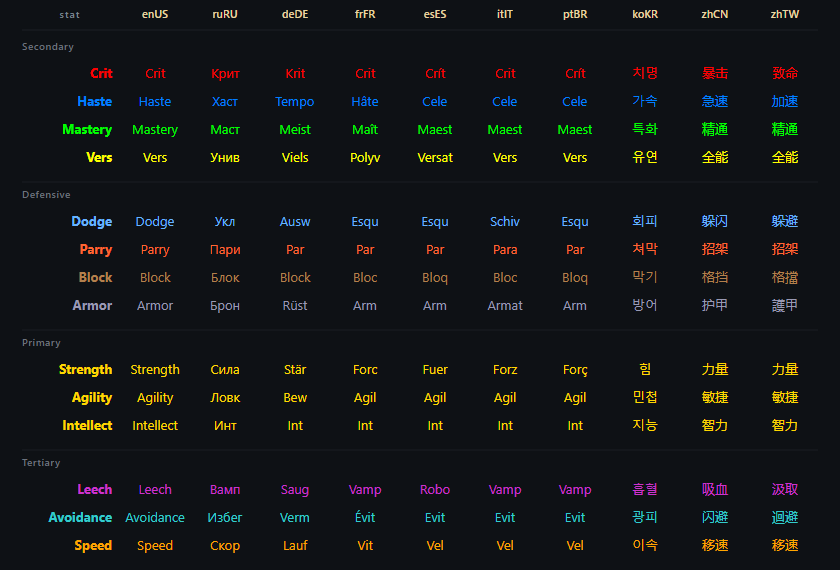
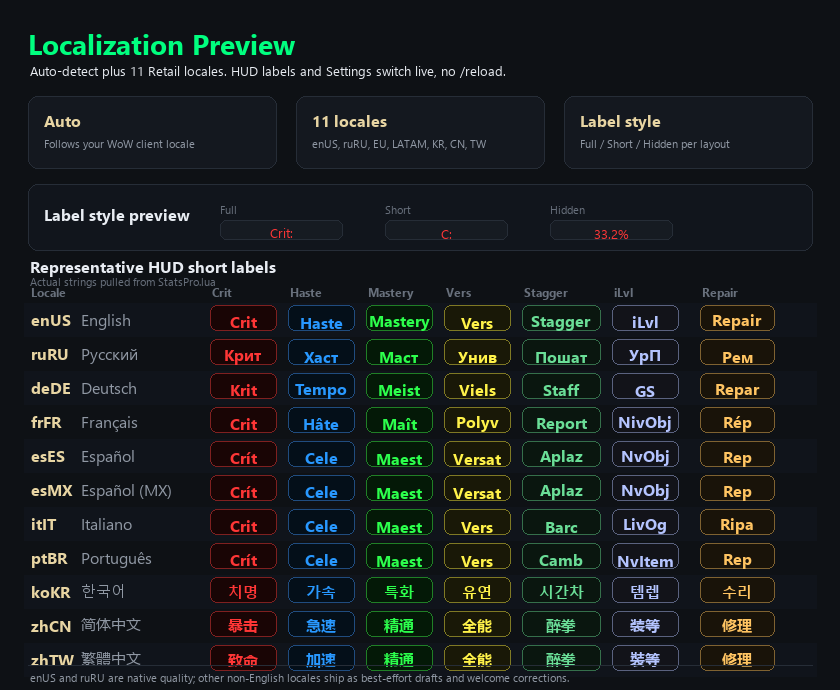
docs: refresh localization preview

diff --git a/README.md b/README.md
@@ -105,7 +105,7 @@ Stat labels render in your WoW client's language by default — no setup require
 Curated short-form translations across all 11 retail WoW locales preserve the same
 compact 4-7 char visual rhythm as the original English labels:
 
-![StatsPro localization — short-form stat names across 11 retail WoW locales, color-coded with default StatsPro stat colors](screenshots/localization.png)
+![StatsPro localization preview — 11 retail locales, HUD short labels, and label style examples](screenshots/localization.png)
 
 | Locale | Sample row |
 |---|---|